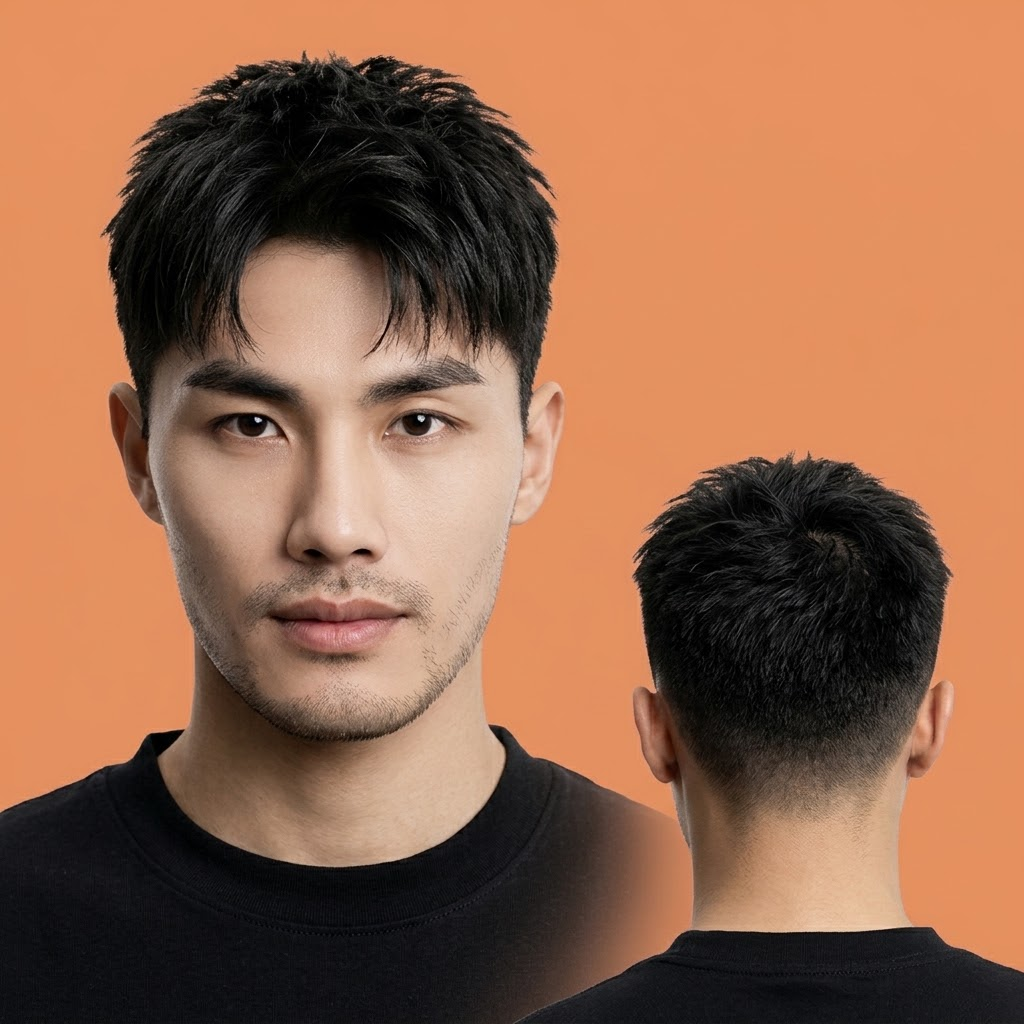
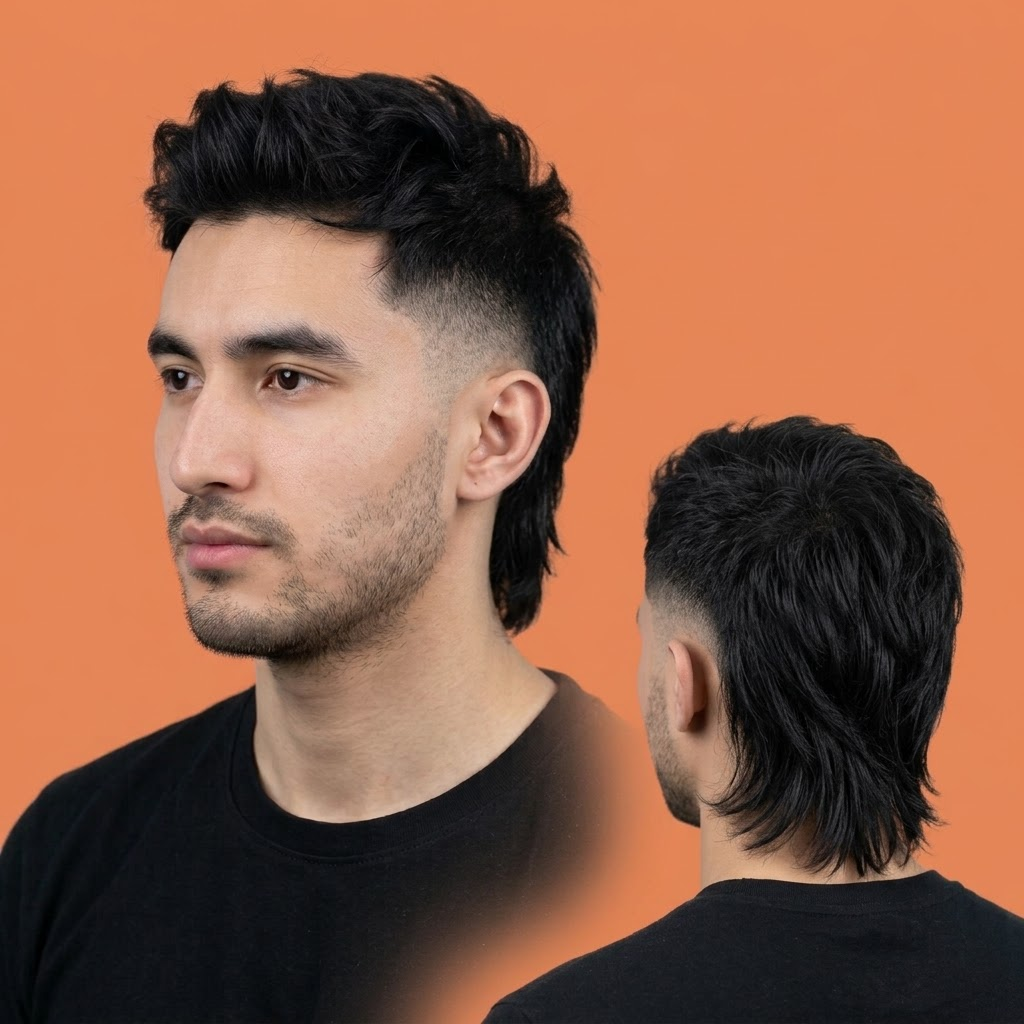
feat(catalogue): photos for hair styles H89-H101; Shaolin Cut main photo back to front

diff --git a/content-source/Hair styles.md b/content-source/Hair styles.md
@@ -1,6 +1,6 @@
 # Hair styles
 
-101 hair styles, from a shaved head to long hair, including Korean styles. 63 use a front photo. 38 use a side photo because the cut only shows clearly from the side.
+101 hair styles, from a shaved head to long hair, including Korean styles. 64 use a front photo. 37 use a side photo because the cut only shows clearly from the side.
 
 ## At a glance
 
@@ -105,7 +105,7 @@
 | H97 C-Curl Perm | Medium | Medium | Oval, Square, Long, Heart | Straight, Wavy | Yes | Front |
 | H98 S-Curl Perm | Medium | Medium | Oval, Square, Long, Heart | Straight, Wavy | Yes | Front |
 | H99 Garma Perm | Medium | Medium | Oval, Square, Long, Heart | Straight, Wavy | Yes | Front |
-| H100 Shaolin Cut | Very short, small tupi | Medium | Oval, Square | All | Yes | Side |
+| H100 Shaolin Cut | Very short, small tupi | Medium | Oval, Square | All | Yes | Front |
 | H101 Brahmin Cut | No hair, small tuft | High | Oval, Square | All | Yes | Side |
 
 ## H01 Buzz Cut
@@ -3181,7 +3181,7 @@ A close monk-style shave, with a small tupi at the crown.
 - **Next barber visit:** in 2 weeks
 - **Suits:** Oval and square face · All hair types · Good for thin hair and hair loss
 - **Also called:** Monk cut with tupi, shadow shave
-- **Main photo:** Side
+- **Main photo:** Front
 
 **FAQ**
 

diff --git a/image-prompts/ready-to-paste.md b/image-prompts/ready-to-paste.md
@@ -2388,7 +2388,7 @@ TRAITS FOR THIS STYLE (identity unchanged):
 - Skin: very fair and smooth (his own).
 - Hair texture: straight, as in the reference.
 HAIR IMAGE RULES: the beard and moustache are the same in every hair image: light even stubble, 1-2 mm, with a clean curved neck line. Main view as the item says. Second view: back of the head, showing the back of the cut and the nape.
-MAIN VIEW: left side profile
+MAIN VIEW: straight front, head and shoulders
 BACKDROP: Sky blue (#A9C9E8).
 LIGHT: soft, diffused key light from the front left, gentle fill from the right, subtle rim light separating the hair from the background. True-to-life skin tones and natural skin texture. Sharp focus on hair and beard detail, 85 mm portrait lens look.
 BACKGROUND: one flat, seamless studio backdrop in the solid colour named in BACKDROP, evenly lit like a painted colour-block wall. No gradient, texture, props or background shadows.

diff --git a/content-source/Image prompts.md b/content-source/Image prompts.md
@@ -1417,7 +1417,7 @@ CALLOUTS:
 ```text
 ITEM: H100 Shaolin Cut
 BACKDROP: Sky blue (#A9C9E8).
-MAIN VIEW: left side profile
+MAIN VIEW: straight front, head and shoulders
 CHARACTER NOTE: same man, with his head cut very close except one small tupi at the back of the crown.
 STYLE: whole head cut to an even 1 mm shadow with no razor-smooth shine, except one small tupi of black hair about 5 cm across and 8-10 cm long at the back of the crown, combed neatly with a clean outline around it; sharp even hairline; healthy matte scalp.
 CALLOUTS:
